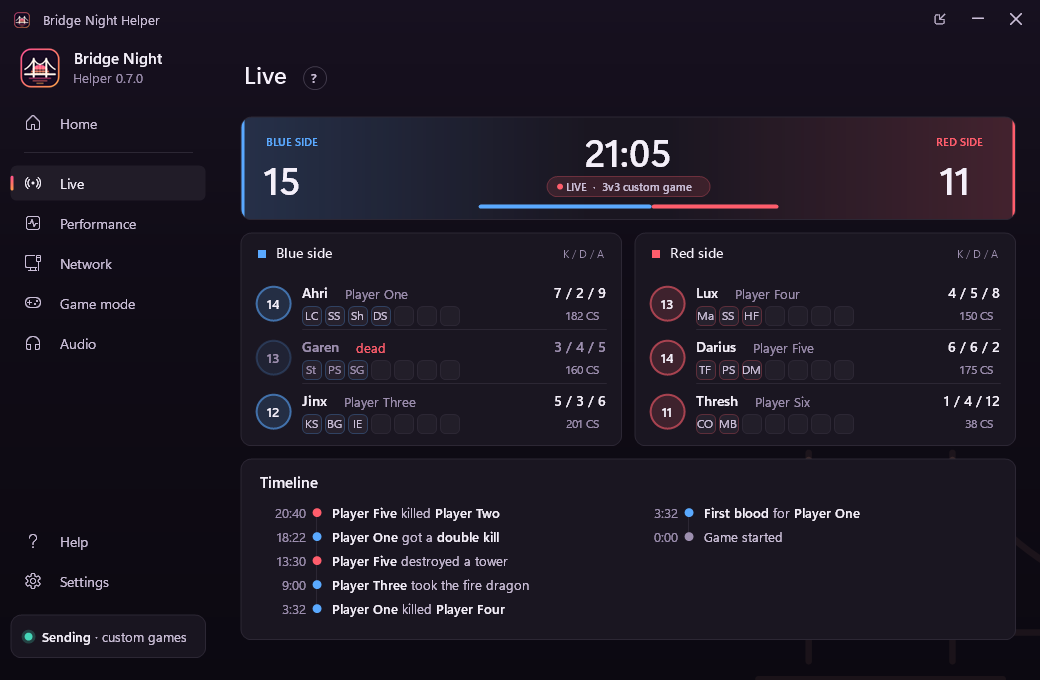
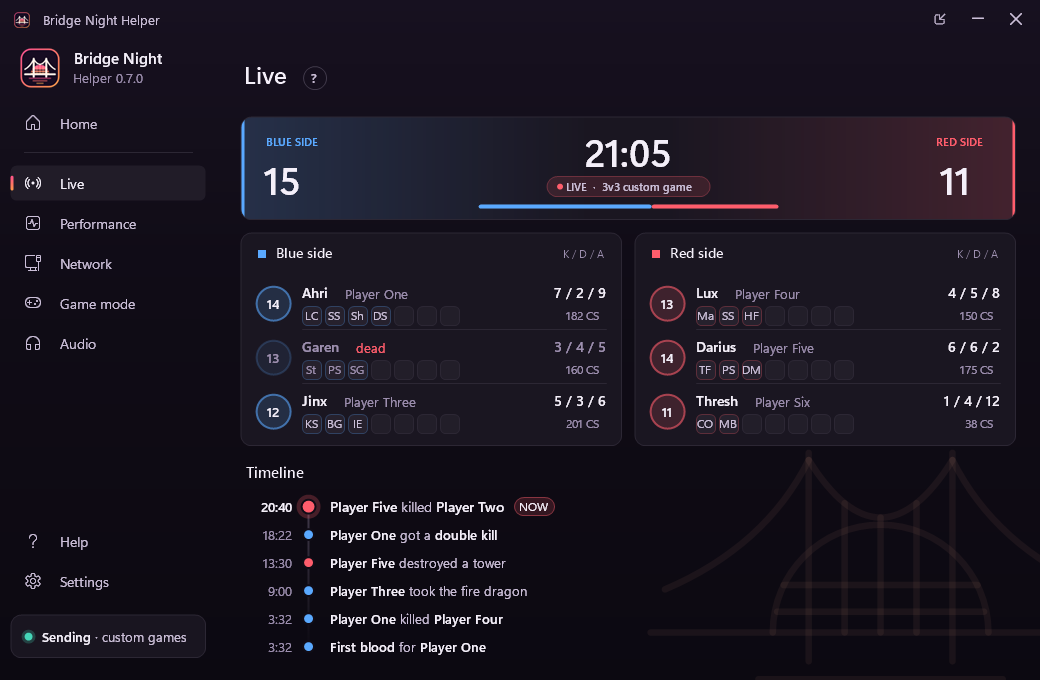
Helper 0.7: Live timeline without a box: dots on a line, newest on top slides in and is highlighted

Changed region(s): [[0.2462, 0.6794, 0.5538, 0.9574], [0.6154, 0.7412, 0.8308, 0.8029]]

diff --git a/helper/UiLive.cs b/helper/UiLive.cs
@@ -17,7 +17,8 @@ namespace BridgeNight
         public static readonly Color Blue = Color.FromArgb(0x5a, 0xa9, 0xff), Red = Color.FromArgb(0xff, 0x5d, 0x6c);
         const int Rows = 5, RowH = 54, TeamW = 382, ScoreH = 104, Bottom = 524;
 
-        Card empty, blueCard, redCard, logCard;
+        Card empty, blueCard, redCard;
+        Label timelineTitle;
         ScoreBar score;
         Label blueHead, redHead;
         readonly PlayerRow[] blue = new PlayerRow[Rows], red = new PlayerRow[Rows];
@@ -50,9 +51,10 @@ namespace BridgeNight
                 redCard.Controls.Add(red[i]);
             }
 
-            logCard = Ui.Card(this, "Timeline", X0, Y0 + ScoreH + 12, W0, 120);
-            timeline = new Timeline { Bounds = Theme.R(16, 42, W0 - 32, 70) };
-            logCard.Controls.Add(timeline);
+            // The timeline sits right on the page, no box around it: a heading, then dots on a line.
+            timelineTitle = L(this, "Timeline", Theme.CardTitle, Theme.Ink, X0 + 4, Y0 + ScoreH + 12, 200, 24);
+            timeline = new Timeline { Bounds = Theme.R(X0, Y0 + ScoreH + 40, W0, 120) };
+            Controls.Add(timeline);
         }
 
         Card TeamCard(int x, string title, Color side, out Label head)
@@ -75,7 +77,7 @@ namespace BridgeNight
             var players = g == null ? null : Json.List(g, "allPlayers");
             var has = players != null && players.Length > 0;
             Ui.Show(empty, !has);
-            foreach (Control c in new Control[] { score, blueCard, redCard, logCard }) Ui.Show(c, has);
+            foreach (Control c in new Control[] { score, blueCard, redCard, timelineTitle, timeline }) Ui.Show(c, has);
             if (!has) return;
 
             double t = 0;
@@ -89,14 +91,14 @@ namespace BridgeNight
             Fill(red, redCard, chaos);
 
             // The timeline takes the rest of the page, so small games show more of it.
-            logCard.Top = Math.Max(blueCard.Bottom, redCard.Bottom) + Theme.Px(12);
-            logCard.Height = Math.Max(Theme.Px(110), Theme.Px(Y0 + Bottom) - logCard.Top);
-            timeline.Height = logCard.Height - Theme.Px(50);
+            timelineTitle.Top = Math.Max(blueCard.Bottom, redCard.Bottom) + Theme.Px(16);
+            timeline.Top = timelineTitle.Bottom + Theme.Px(6);
+            timeline.Height = Math.Max(Theme.Px(80), Theme.Px(Y0 + Bottom + 24) - timeline.Top);
 
             var teams = new Dictionary<string, Color>(StringComparer.OrdinalIgnoreCase);
             foreach (var p in order) foreach (var n in Names(p)) teams[n] = Blue;
             foreach (var p in chaos) foreach (var n in Names(p)) teams[n] = Red;
-            timeline.Set(Json.List(Json.Dict(g, "events"), "Events"), teams);
+            timeline.Set(Json.List(Json.Dict(g, "events"), "Events"), teams, t);
         }
 
         static IEnumerable<string> Names(object p)
@@ -314,38 +316,56 @@ namespace BridgeNight
         }
     }
 
-    /// Newest first: time, a coloured dot (killer's team, or orange for objectives) and the line with names in bold.
+    /// Newest on top, on one line with dots: time, a coloured dot (killer's team, or orange for objectives) and the
+    /// line with names in bold. What happened in the last 30 s of game time is highlighted, and a new event slides in.
     class Timeline : Control
     {
-        sealed class Line { public double At; public Color Dot; public List<KeyValuePair<string, bool>> Parts = new List<KeyValuePair<string, bool>>(); }
+        sealed class Line { public double At; public Color Dot; public string Key = ""; public List<KeyValuePair<string, bool>> Parts = new List<KeyValuePair<string, bool>>(); }
         List<Line> lines = new List<Line>();
-        string key = "";
-        const int LineH = 24;
+        string key = "", firstKey = "";
+        double now;
+        const int LineH = 28, FreshSeconds = 30;
+        readonly Timer slide = new Timer { Interval = 15 };
+        float offset; // pixels the list is still shifted up while a new event slides in
 
         public Timeline()
         {
-            SetStyle(ControlStyles.UserPaint | ControlStyles.AllPaintingInWmPaint | ControlStyles.OptimizedDoubleBuffer | ControlStyles.ResizeRedraw, true);
-            BackColor = Theme.Card;
+            SetStyle(ControlStyles.UserPaint | ControlStyles.AllPaintingInWmPaint | ControlStyles.OptimizedDoubleBuffer | ControlStyles.ResizeRedraw | ControlStyles.SupportsTransparentBackColor, true);
             TabStop = false;
             AccessibleRole = AccessibleRole.List;
+            slide.Tick += delegate
+            {
+                offset = Math.Max(0, offset - Theme.Px(3));
+                if (offset <= 0) slide.Stop();
+                Invalidate();
+            };
         }
 
-        public void Set(object[] events, Dictionary<string, Color> teams)
+        public void Set(object[] events, Dictionary<string, Color> teams, double gameTime)
         {
             var list = new List<Line>();
             if (events != null)
-                for (var i = events.Length - 1; i >= 0 && list.Count < 12; i--)
+                for (var i = events.Length - 1; i >= 0 && list.Count < 14; i--)
                 {
                     var l = Make(events[i], teams);
                     if (l != null) list.Add(l);
                 }
-            var now = string.Join("\n", list.Select(l => l.At + string.Join("", l.Parts.Select(p => p.Key)).ToString()).ToArray());
-            if (now == key) return;
-            key = now;
+            var freshNow = list.Count > 0 && gameTime - list[0].At < FreshSeconds;
+            var wasFresh = lines.Count > 0 && now - lines[0].At < FreshSeconds;
+            now = gameTime;
+            var k = string.Join("\n", list.Select(l => l.Key).ToArray());
+            if (k == key && freshNow == wasFresh) return;
+            // A new event on top: slide it in (only when the page is on screen; the timer stops by itself).
+            var newFirst = list.Count > 0 ? list[0].Key : "";
+            if (firstKey != "" && newFirst != firstKey && Visible) { offset = Theme.Px(LineH); slide.Start(); }
+            firstKey = newFirst;
+            key = k;
             lines = list;
             AccessibleName = string.Join(". ", list.Select(l => string.Join("", l.Parts.Select(p => p.Key))).ToArray());
             Invalidate();
         }
+
+        protected override void Dispose(bool disposing) { if (disposing) slide.Dispose(); base.Dispose(disposing); }
 
         static Line Make(object e, Dictionary<string, Color> teams)
         {
@@ -377,6 +397,7 @@ namespace BridgeNight
                 case "GameEnd": Bold(l, "Game over"); l.Dot = Theme.Mute; break;
                 default: return null;
             }
+            l.Key = l.At.ToString("0.0", Ui.En) + string.Join("", l.Parts.Select(p => p.Key));
             return l;
         }
 
@@ -395,48 +416,69 @@ namespace BridgeNight
             return hash > 0 ? name.Substring(0, hash) : name;
         }
 
+        protected override void OnPaintBackground(PaintEventArgs e) { Ui.PaintParent(this, e); }
+
         protected override void OnPaint(PaintEventArgs e)
         {
             var g = e.Graphics;
-            g.Clear(BackColor);
             g.SmoothingMode = SmoothingMode.AntiAlias;
             const TextFormatFlags f = TextFormatFlags.NoPrefix | TextFormatFlags.NoPadding | TextFormatFlags.VerticalCenter;
+            var lh = Theme.Px(LineH);
+            var timeW = Theme.Px(52);
+            var axis = timeW + Theme.Px(16); // x of the line through the dots
             if (lines.Count == 0)
             {
-                TextRenderer.DrawText(g, "Nothing yet. Kills, dragons and towers show up here.", Theme.Small, new Rectangle(0, 0, Width, Theme.Px(LineH)), Theme.Mute, f);
+                TextRenderer.DrawText(g, "Nothing yet. Kills, dragons and towers show up here.", Theme.Small, new Rectangle(axis + Theme.Px(20), 0, Width - axis, lh), Theme.Mute, f);
                 return;
             }
-            var lh = Theme.Px(LineH);
             var fit = Math.Max(1, Height / lh);
-            // Two columns when there is room for more lines than height allows in one.
-            var cols = lines.Count > fit ? 2 : 1;
-            var colW = Width / cols;
-            var timeW = Theme.Px(50);
-            var axisX = timeW + Theme.Px(6);
-            for (var c = 0; c < cols; c++)
+            var count = Math.Min(fit, lines.Count);
+
+            // The line through the dots, fading out at the bottom.
+            var top = lh / 2f - offset;
+            var bottom = (count - 1) * lh + lh / 2f;
+            if (bottom > top)
+                using (var lb = new LinearGradientBrush(new RectangleF(0, top - 1, 1, bottom - top + 2), Theme.BorderHi, Color.FromArgb(0, Theme.BorderHi), 90f))
+                using (var p = new Pen(lb, Theme.Px(2)))
+                    g.DrawLine(p, axis, top, axis, bottom);
+
+            for (var i = 0; i < count; i++)
             {
-                var x0 = c * colW;
-                var shown = 0;
-                for (var i = c * fit; i < lines.Count && shown < fit; i++, shown++)
+                var l = lines[i];
+                var y = i * lh - offset;
+                var fresh = i == 0 && now - l.At < FreshSeconds;
+                var fade = i == 0 ? 255 : Math.Max(110, 255 - i * 14); // older lines get a little quieter
+                TextRenderer.DrawText(g, Ui.Clock(TimeSpan.FromSeconds(l.At)), fresh ? Theme.SmallStrong : Theme.Small, new Rectangle(0, (int)y, timeW, lh), fresh ? Theme.Ink : Theme.Mute, f | TextFormatFlags.Right);
+
+                // Dot; the newest one glows.
+                var d = Theme.Px(fresh ? 12 : 9);
+                var cy = y + lh / 2f;
+                if (fresh)
+                    using (var glow = new SolidBrush(Color.FromArgb(60, l.Dot))) g.FillEllipse(glow, axis - d, cy - d, d * 2, d * 2);
+                using (var ring = new SolidBrush(Theme.Base)) g.FillEllipse(ring, axis - d / 2f - Theme.Px(2), cy - d / 2f - Theme.Px(2), d + Theme.Px(4), d + Theme.Px(4));
+                using (var b = new SolidBrush(l.Dot)) g.FillEllipse(b, axis - d / 2f, cy - d / 2f, d, d);
+
+                var x = axis + Theme.Px(22);
+                foreach (var part in l.Parts)
                 {
-                    var l = lines[i];
-                    var y = shown * lh;
-                    // Faint vertical line linking the dots.
-                    if (shown < fit - 1 && i < lines.Count - 1)
-                        using (var p = new Pen(Theme.Border)) g.DrawLine(p, x0 + axisX + Theme.Px(4), y + lh / 2, x0 + axisX + Theme.Px(4), y + lh + lh / 2);
-                    TextRenderer.DrawText(g, Ui.Clock(TimeSpan.FromSeconds(l.At)), Theme.Small, new Rectangle(x0, y, timeW, lh), Theme.Mute, f | TextFormatFlags.Right);
-                    var d = Theme.Px(9);
-                    using (var b = new SolidBrush(l.Dot)) g.FillEllipse(b, x0 + axisX, y + (lh - d) / 2f, d, d);
-                    var x = x0 + axisX + Theme.Px(20);
-                    foreach (var part in l.Parts)
+                    var font = fresh ? (part.Value ? Theme.Strong : Theme.Body) : part.Value ? Theme.SmallStrong : Theme.Small;
+                    var color = fresh ? (part.Value ? Theme.Ink : Theme.Ink2) : Color.FromArgb(fade, part.Value ? Theme.Ink : Theme.Ink2);
+                    var w = TextRenderer.MeasureText(g, part.Key, font, Size.Empty, TextFormatFlags.NoPrefix | TextFormatFlags.NoPadding).Width;
+                    var room = Width - Theme.Px(80) - x;
+                    if (room <= 0) break;
+                    TextRenderer.DrawText(g, part.Key, font, new Rectangle(x, (int)y, Math.Min(w + 1, room), lh), color, f | TextFormatFlags.EndEllipsis);
+                    x += w;
+                }
+                if (fresh)
+                {
+                    // Small "NOW" tag after the newest line.
+                    var tag = new RectangleF(x + Theme.Px(10), cy - Theme.Px(9), Theme.Px(40), Theme.Px(18));
+                    using (var path = Theme.Round(tag, tag.Height / 2))
                     {
-                        var font = part.Value ? Theme.SmallStrong : Theme.Small;
-                        var w = TextRenderer.MeasureText(g, part.Key, font, Size.Empty, TextFormatFlags.NoPrefix | TextFormatFlags.NoPadding).Width;
-                        var room = x0 + colW - Theme.Px(12) - x;
-                        if (room <= 0) break;
-                        TextRenderer.DrawText(g, part.Key, font, new Rectangle(x, y, Math.Min(w + 1, room), lh), part.Value ? Theme.Ink : Theme.Ink2, f | TextFormatFlags.EndEllipsis);
-                        x += w;
+                        using (var b = new SolidBrush(Color.FromArgb(40, l.Dot))) g.FillPath(b, path);
+                        using (var p = new Pen(Color.FromArgb(120, l.Dot))) g.DrawPath(p, path);
                     }
+                    TextRenderer.DrawText(g, "NOW", Theme.Tiny, Rectangle.Round(tag), Theme.Ink, TextFormatFlags.HorizontalCenter | TextFormatFlags.VerticalCenter | TextFormatFlags.NoPadding);
                 }
             }
         }
